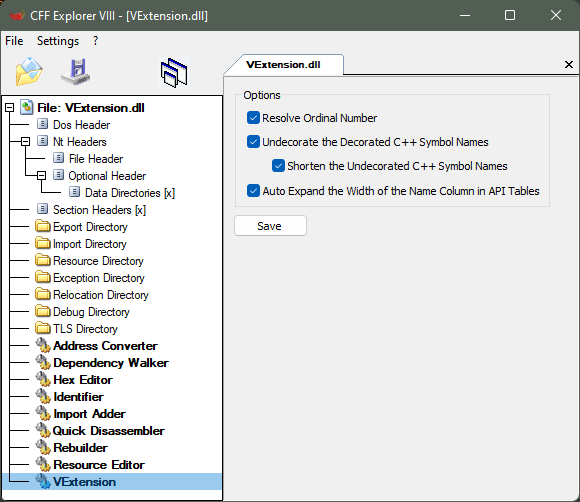
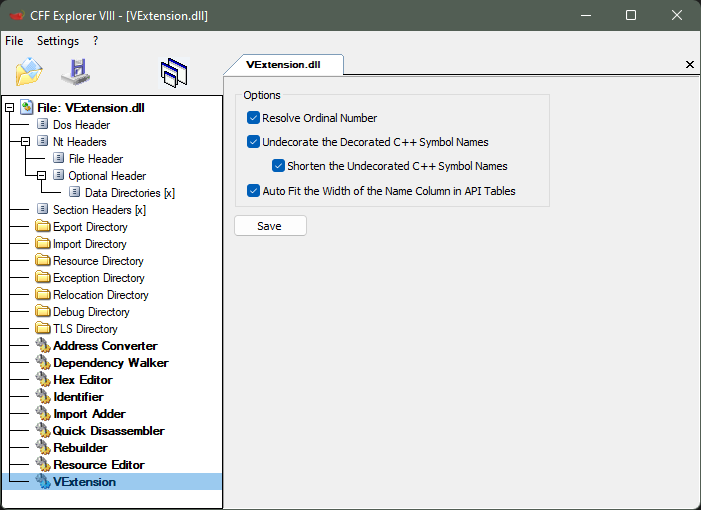
Initial

Changed region(s): [[0.0, 0.0, 1.0, 1.0], [0.869, 0.0, 0.9, 0.0598]]

diff --git a/VExtension.Page.cpp b/VExtension.Page.cpp
@@ -13,7 +13,7 @@ VExtensionPage::VExtensionPage(json& prefs)
   , m_option_resolve_ordinal(nullptr)
   , m_option_undecorate_symbol(nullptr)
   , m_option_shorten_undecorated_symbol(nullptr)
-  , m_option_auto_expand_last_column(nullptr)
+  , m_option_auto_fit_width_column_name(nullptr)
 {
 }
 
@@ -30,7 +30,7 @@ LRESULT VExtensionPage::DlgProc(HWND hWnd, UINT uMsg, WPARAM wParam, LPARAM lPar
       m_option_resolve_ordinal = GetDlgItem(hWnd, IDC_OPTION_RESOLVE_ORDINAL);
       m_option_undecorate_symbol = GetDlgItem(hWnd, IDC_OPTION_UNDECORATE_SYMBOL);
       m_option_shorten_undecorated_symbol = GetDlgItem(hWnd, IDC_OPTION_SHORTEN_UNDECORATED_SYMBOL);
-      m_option_auto_expand_last_column = GetDlgItem(hWnd, IDC_OPTION_AUTO_EXPAND_LAST_COLUMN);
+      m_option_auto_fit_width_column_name = GetDlgItem(hWnd, IDC_OPTION_AUTO_FIT_LAST_COLUMN);
 
       bool resolve_ordinal = json_get_option(m_prefs, "resolve_ordinal", true);
       Button_SetCheck(m_option_resolve_ordinal, resolve_ordinal ? BST_CHECKED : BST_UNCHECKED);
@@ -42,8 +42,8 @@ LRESULT VExtensionPage::DlgProc(HWND hWnd, UINT uMsg, WPARAM wParam, LPARAM lPar
       Button_SetCheck(m_option_shorten_undecorated_symbol, shorten_undecorated_symbol ? BST_CHECKED : BST_UNCHECKED);
       Button_Enable(m_option_shorten_undecorated_symbol, undecorate_symbol ? TRUE : FALSE);
 
-      bool auto_expand_last_column = json_get_option(m_prefs, "auto_expand_name_column_width", true);
-      Button_SetCheck(m_option_auto_expand_last_column, auto_expand_last_column ? BST_CHECKED : BST_UNCHECKED);
+      bool auto_fit_width_column_name = json_get_option(m_prefs, "auto_fit_width_column_name", true);
+      Button_SetCheck(m_option_auto_fit_width_column_name, auto_fit_width_column_name ? BST_CHECKED : BST_UNCHECKED);
     }
     break;
 
@@ -73,10 +73,10 @@ LRESULT VExtensionPage::DlgProc(HWND hWnd, UINT uMsg, WPARAM wParam, LPARAM lPar
         }
         break;
 
-        case IDC_OPTION_AUTO_EXPAND_LAST_COLUMN:
+        case IDC_OPTION_AUTO_FIT_LAST_COLUMN:
         {
-          bool auto_expand_last_column = Button_GetCheck(m_option_auto_expand_last_column) == BST_CHECKED;
-          json_set_option(m_prefs, "auto_expand_name_column_width", auto_expand_last_column);
+          bool auto_fit_width_column_name = Button_GetCheck(m_option_auto_fit_width_column_name) == BST_CHECKED;
+          json_set_option(m_prefs, "auto_fit_width_column_name", auto_fit_width_column_name);
         }
         break;
 

diff --git a/dllmain.cpp b/dllmain.cpp
@@ -119,8 +119,8 @@ void __fastcall CGridCtrl_OnSize_hook(CWnd* pWnd, unsigned int nType, unsigned i
   {
     ImportExportDirectory_Below_Grid = pWnd;
 
-    bool auto_expand_last_column = json_get_option(g_prefs, "auto_expand_name_column_width", true);
-    if (auto_expand_last_column)
+    bool auto_fit_width_column_name = json_get_option(g_prefs, "auto_fit_width_column_name", true);
+    if (auto_fit_width_column_name)
     {
       vu::Debouncer::instance().debounce(ImportExportDirectory_Below_Grid_ID, 100, [&]() // 100ms
       {
@@ -218,8 +218,8 @@ QWORD __fastcall CGridCtrl_SendMessageToParent_hook(CWnd* pWnd, int nRow, int nC
 
   auto result = CGridCtrl_SendMessageToParent_backup(pWnd, nRow, nCol, nMessage);
 
-  bool auto_expand_last_column = json_get_option(g_prefs, "auto_expand_name_column_width", true);
-  if (auto_expand_last_column)
+  bool auto_fit_width_column_name = json_get_option(g_prefs, "auto_fit_width_column_name", true);
+  if (auto_fit_width_column_name)
   {
     CGridCtrl_ExpandLastColumn_Ex(ImportExportDirectory_Below_Grid);
   }

diff --git a/resource.h b/resource.h
@@ -7,7 +7,7 @@
 #define IDC_OPTION_SAVE                 1002
 #define IDC_OPTION_UNDECORATE_SYMBOL    1003
 #define IDC_OPTION_SHORTEN_UNDECORATED_SYMBOL 1004
-#define IDC_OPTION_AUTO_EXPAND_LAST_COLUMN 1005
+#define IDC_OPTION_AUTO_FIT_LAST_COLUMN 1005
 
 // Next default values for new objects
 // 

diff --git a/VExtension.Page.h b/VExtension.Page.h
@@ -16,5 +16,5 @@ private:
   HWND  m_option_resolve_ordinal;
   HWND  m_option_undecorate_symbol;
   HWND  m_option_shorten_undecorated_symbol;
-  HWND  m_option_auto_expand_last_column;
+  HWND  m_option_auto_fit_width_column_name;
 };

diff --git a/README.md b/README.md
@@ -10,7 +10,7 @@ _ _ _
 > 
 > * Shorten symbol name for several C++ libraries such as STL (you can easily modify or add more rules in the configuration file [VExtension.json](bins/VExtension/VExtension.json)).
 > 
-> * Auto Expand the Width of the Name Column in API Tables
+> * Auto Fit the Width of the Name Column in API Tables
 
 #### Usage
 
